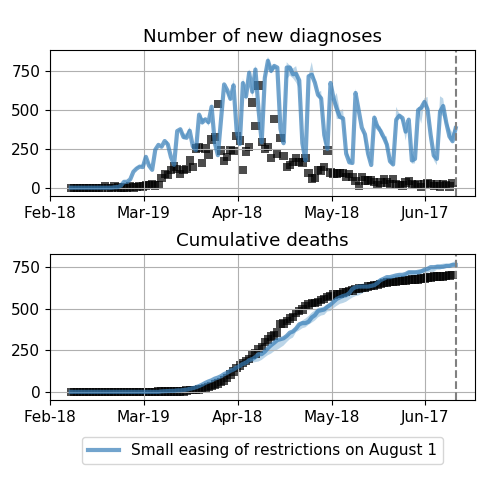
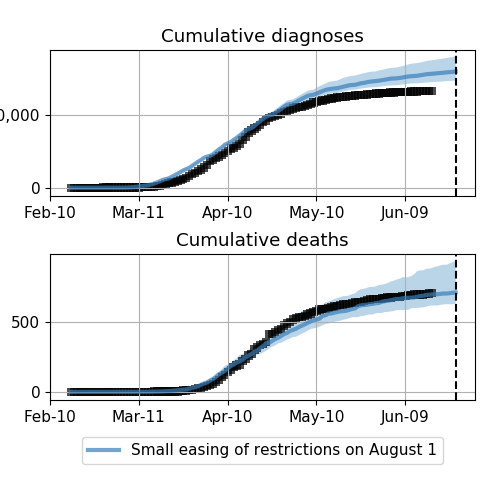
update boston

diff --git a/applications/us_states/run_boston.py b/applications/us_states/run_boston.py
@@ -14,14 +14,14 @@ if __name__ == "__main__":
 
     # country-specific parameters
     user_pars = {'Boston': {'pop_size': int(10e4),
-                             'beta': 0.2458,
+                             'beta': 0.124,
                              'pop_infected': 1,
                              'n_days': 380,
                                 'calibration_end': '2020-06-27'}}
 
-    # the metapars for all countries and scenarios
-    metapars = {'n_runs': 3,
-                'noise': 0,
+    # the metapars for all countries and  scenarios
+    metapars = {'n_runs': 8,
+                'noise': 0.03,
                 'verbose': 1,
                 'rand_seed': 1}
 
@@ -35,11 +35,11 @@ if __name__ == "__main__":
     #                            'relax3': {'beta': 0.45},
     #                            'relax4': {'beta': 0.55}}}
 
-    scen_opts = {'Boston': {'Small easing of restrictions on August 1': {'replace': (['relax2'], [['relax3']], [[158]])},
-                                 'Moderate easing of restrictions on August 1': {'replace': (['relax2'], [['relax4']], [[158]])},
-                                 'Small easing of restrictions on July 15': {'replace': (['relax2'], [['relax3']], [[142]])},
-                                 'Moderate easing of restrictions on July 15': {'replace': (['relax2'], [['relax4']], [[142]])},
-                                 'No changes to current lockdown restrictions': {'replace': (['relax2'], [['relax2']], [[140]])}
+    scen_opts = {'Boston': {'Small easing of restrictions on August 1': {'replace': (['relax2'], [['relax3']], [[151]])},
+                                 'Moderate easing of restrictions on August 1': {'replace': (['relax2'], [['relax4']], [[151]])},
+                                 'Small easing of restrictions on July 15': {'replace': (['relax2'], [['relax3']], [[135]])},
+                                 'Moderate easing of restrictions on July 15': {'replace': (['relax2'], [['relax4']], [[135]])},
+                                 'No changes to current lockdown restrictions': {'replace': (['relax2'], [['relax2']], [[133]])}
                                 }}
 
     # set up the scenarios
@@ -58,28 +58,28 @@ if __name__ == "__main__":
 
     # Print number of new infections
     print('New Infections Nov-Feb')
-    October1_10release = sum(scens['scenarios']['Boston'].results['new_infections']['Small easing of restrictions on August 1']['best'][251:370])
+    October1_10release = sum(scens['scenarios']['Boston'].results['new_infections']['Small easing of restrictions on August 1']['best'][244:363])
     print('Small easing of restrictions on August 1 =', October1_10release)
-    no_release = sum(scens['scenarios']['Boston'].results['new_infections']['No changes to current lockdown restrictions']['best'][251:370])
+    no_release = sum(scens['scenarios']['Boston'].results['new_infections']['No changes to current lockdown restrictions']['best'][244:363])
     print('No changes to current lockdown restrictions =', no_release)
-    October1_40release = sum(scens['scenarios']['Boston'].results['new_infections']['Moderate easing of restrictions on August 1']['best'][251:370])
+    October1_40release = sum(scens['scenarios']['Boston'].results['new_infections']['Moderate easing of restrictions on August 1']['best'][244:363])
     print('Moderate easing of restrictions on August 1 =', October1_40release)
-    September1_10release = sum(scens['scenarios']['Boston'].results['new_infections']['Small easing of restrictions on July 15']['best'][251:370])
+    September1_10release = sum(scens['scenarios']['Boston'].results['new_infections']['Small easing of restrictions on July 15']['best'][244:363])
     print('Small easing of restrictions on July 15 =', September1_10release)
-    September1_40release = sum(scens['scenarios']['Boston'].results['new_infections']['Moderate easing of restrictions on July 15']['best'][251:370])
+    September1_40release = sum(scens['scenarios']['Boston'].results['new_infections']['Moderate easing of restrictions on July 15']['best'][244:363])
     print('Moderate easing of restrictions on July 15 =', September1_40release)
 
     # Print estimated seroprevalence
     print('Seroprevalence end of Feb 2021')
-    October1_10release = scens['scenarios']['Boston'].results['cum_infections']['Small easing of restrictions on August 1']['best'][370]/694583
+    October1_10release = scens['scenarios']['Boston'].results['cum_infections']['Small easing of restrictions on August 1']['best'][363]/694583
     print('Small easing of restrictions on August 1 =', October1_10release)
-    no_release = scens['scenarios']['Boston'].results['cum_infections']['No changes to current lockdown restrictions']['best'][370]/694583
+    no_release = scens['scenarios']['Boston'].results['cum_infections']['No changes to current lockdown restrictions']['best'][363]/694583
     print('No changes to current lockdown restrictions =', no_release)
-    October1_40release = scens['scenarios']['Boston'].results['cum_infections']['Moderate easing of restrictions on August 1']['best'][370]/694583
+    October1_40release = scens['scenarios']['Boston'].results['cum_infections']['Moderate easing of restrictions on August 1']['best'][363]/694583
     print('Moderate easing of restrictions on August 1 =', October1_40release)
-    September1_10release = scens['scenarios']['Boston'].results['cum_infections']['Small easing of restrictions on July 15']['best'][370]/694583
+    September1_10release = scens['scenarios']['Boston'].results['cum_infections']['Small easing of restrictions on July 15']['best'][363]/694583
     print('Small easing of restrictions on July 15 =', September1_10release)
-    September1_40release = scens['scenarios']['Boston'].results['cum_infections']['Moderate easing of restrictions on July 15']['best'][370]/694583
+    September1_40release = scens['scenarios']['Boston'].results['cum_infections']['Moderate easing of restrictions on July 15']['best'][363]/694583
     print('Moderate easing of restrictions on July 15 =', September1_40release)
 
     import os
@@ -107,7 +107,7 @@ if __name__ == "__main__":
     #                    legend_args={'loc': 'upper center', 'bbox_to_anchor': (0.5, -1.6)},
     #                    axis_args={'left': 0.1, 'wspace': 0.2, 'right': 0.95, 'hspace': 0.4, 'bottom': 0.2},
     #                    fill_args={'alpha': 0.3},
-    #                    to_plot=['new_diagnoses', 'cum_deaths'])
+    #                    to_plot=['cum_diagnoses', 'cum_deaths'])
 
     # Projection Plots
     utils.policy_plot2(scens, plot_ints=False, do_save=True, do_show=True,
